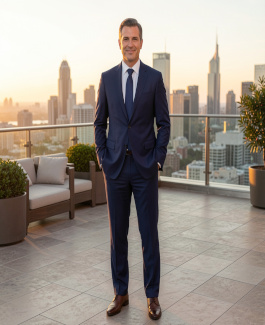
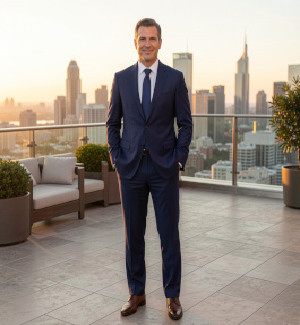
add information in readme | new images for person | add action back for 10_func_object | add css

diff --git a/bjs/10_function_object/index.html b/bjs/10_function_object/index.html
@@ -6,47 +6,57 @@
     <link rel="stylesheet" href="https://stackpath.bootstrapcdn.com/bootstrap/4.4.1/css/bootstrap.min.css"
           integrity="sha384-Vkoo8x4CGsO3+Hhxv8T/Q5PaXtkKtu6ug5TOeNV6gBiFeWPGFN9MuhOf23Q9Ifjh" crossorigin="anonymous">
     <link href="https://fonts.googleapis.com/css2?family=Open+Sans" rel="stylesheet">
-    <!-- <link rel="stylesheet" href="style.css" type="text/css"/> -->
+    <link rel="stylesheet" href="style.css" type="text/css"/>
+    <link rel="preconnect" href="https://fonts.googleapis.com">
+    <link rel="preconnect" href="https://fonts.gstatic.com" crossorigin>
+    <link href="https://fonts.googleapis.com/css2?family=Manrope:wght@200..800&display=swap" rel="stylesheet">
 </head>
-<body>
-<div class="container">
-    <div class="row game-card align-items-center">
-        <div class="col col-md-6 offset-md-3">
-            <div class="card text-center">
-                <div class="card-header">
-                    <p class="m-0">Окно результатов генерации</p>
-                </div>
-                <div class="card-body">
-                    <div class="row">
-                        <div class="col">
-                            <h3 class="card-title">Фамилия: <span id="surnameOutput">Генерация фамилии</span></h3>
-                            <h4>Имя: <span id="firstNameOutput">Генерация имени</span></h4>
-                            <h4>Отчество: <span id="patronymicOutput">Генерация отчества</span></h4>
-                            <p>
-                                <span id="genderOutput">Генерация пола</span>,
-                                <span id="birthYearOutput">Генерация</span> года рождения
-                            </p>
-                            <p>
-                                <span id="ageOutput">Генерация возраста</span>
-                            </p>
-                            <p>
-                                Профессия: <span id="JobOutput">Генерация профессии</span>
-                            </p>
+    <body>
+        <div id="back-container">
+            <a class="back-to-main" href="../../index.html">Назад</a>
+        </div>
+        <div class="container">
+            <div class="row game-card align-items-center">
+                <div class="col col-md-6 offset-md-3">
+                    <div class="card text-center" id="personCard">
+                        <div class="card-header">
+                            <p class="m-0">Окно результатов генерации</p>
                         </div>
-                        <div class="col">
-                            <img src="" id="photoOutput"/>
+                        <div class="card-body">
+                            <div class="row">
+                                <div class="col">
+                                    <img src="image/kid/child/person1.jpeg" id="photoOutput"/>
+                                </div>
+                                <div class="col" id="textPerson">
+                                    <h3 class="card-title">Фамилия: <span id="surnameOutput">Генерация фамилии</span></h3>
+                                    <h4>Имя: <span id="firstNameOutput">Генерация имени</span></h4>
+                                    <h4>Отчество: <span id="patronymicOutput">Генерация отчества</span></h4>
+                                    <p>
+                                        <span id="genderOutput">Генерация пола</span>,
+                                        <span id="birthYearOutput">Генерация</span> года рождения
+                                    </p>
+                                    <p>
+                                        <span id="ageOutput">Генерация возраста</span>
+                                    </p>
+                                    <p>
+                                        Профессия: <span id="JobOutput">Генерация профессии</span>
+                                    </p>
+                                </div>
+                            </div>
+                            <div class="row">
+                                <div class="col">
+                                    <button type="button" id="generateButton" class="btn btn-secondary mt-3" >Сгенерировать</button>
+                                </div>
+                                <div class="col">
+                                    <button type="button" id="resetButton" class="btn btn-secondary mt-3">Сброс</button>
+                                </div>    
+                            </div>
                         </div>
                     </div>
                 </div>
             </div>
-            <div class="card text-center">
-                <button type="button" id="generateButton" class="btn btn-secondary mt-3" >Сгенерировать</button>
-                <button type="button" id="resetButton" class="btn btn-secondary mt-3">Сброс</button>
-            </div>
         </div>
-    </div>
-</div>
-<script src="personGenerator.js"></script>
-<script src="init.js"></script>
-</body>
+        <script src="personGenerator.js"></script>
+        <script src="init.js"></script>
+    </body>
 </html>

diff --git a/bjs/10_function_object/personGenerator.js b/bjs/10_function_object/personGenerator.js
@@ -165,7 +165,7 @@ const personGenerator = {
         }
     }`,
     
-    // json с фото пользователей (мужчины) 18–34 лет
+    // json с фото пользователей (мужской пол) 18–34 лет
     maleYoungPhotoJson: `{
         "count": 3,
         "list": {
@@ -175,7 +175,7 @@ const personGenerator = {
         }
     }`,
 
-    // json с фото пользователей (мужчины) 35-55 лет
+    // json с фото пользователей (мужской пол) 35-55 лет
     maleMaturePhotoJson: `{
         "count": 3,
         "list": {
@@ -184,6 +184,82 @@ const personGenerator = {
             "id_3": "image/adult/male/mature/person3.jpeg"
         }
     }`,
+
+    // json с фото пользователей (женский пол) 18–34 лет
+    femaleYoungPhotoJson: `{
+        "count": 8,
+        "list": {
+            "id_1": "image/adult/female/young/person1.jpeg",
+            "id_2": "image/adult/female/young/person2.jpeg",
+            "id_3": "image/adult/female/young/person3.jpeg",
+            "id_4": "image/adult/female/young/person4.jpeg",
+            "id_5": "image/adult/female/young/person5.jpeg",
+            "id_6": "image/adult/female/young/person6.jpeg",
+            "id_7": "image/adult/female/young/person7.jpeg",
+            "id_8": "image/adult/female/young/person8.jpeg"
+        }
+    }`,
+
+    // json с фото пользователей (женский пол) 35-55 лет
+    femaleMaturePhotoJson: `{
+        "count": 5,
+        "list": {
+            "id_1": "image/adult/female/mature/person1.jpeg",
+            "id_2": "image/adult/female/mature/person2.jpeg",
+            "id_3": "image/adult/female/mature/person3.jpeg",
+            "id_4": "image/adult/female/mature/person4.jpeg",
+            "id_5": "image/adult/female/mature/person5.jpeg"
+        }
+    }`,
+
+    // json с фото - заглушкой (дети от 1 до 15 лет)
+    childPhotoJson: `{
+        "count": 1,
+        "list": {
+            "id_1": "image/kid/child/person1.jpeg"
+        }
+    }`,
+
+    // json с фото пользователей (женский пол) (дети от 16 до 17 лет)
+    femaleKidPhotoJson: `{
+        "count": 3,
+        "list": {
+            "id_1": "image/kid/female/person1.jpeg",
+            "id_2": "image/kid/female/person2.jpeg",
+            "id_3": "image/kid/female/person3.jpeg"
+        }
+    }`,   
+
+
+    // json с фото пользователей (мужской пол) (дети от 16 до 17 лет)
+    maleKidPhotoJson: `{
+        "count": 3,
+        "list": {
+            "id_1": "image/kid/male/person1.jpeg",
+            "id_2": "image/kid/male/person2.jpeg",
+            "id_3": "image/kid/male/person3.jpeg"
+        }
+    }`,   
+
+    // json с фото пользователей (женский пол) (дети от 56 до 80 лет)
+    femalePensionerPhotoJson: `{
+        "count": 3,
+        "list": {
+            "id_1": "image/pensioner/female/person1.jpeg",
+            "id_2": "image/pensioner/female/person2.jpeg",
+            "id_3": "image/pensioner/female/person3.jpeg"
+        }
+    }`,   
+
+    // json с фото пользователей (мужской пол) (дети от 56 до 80 лет)
+    malePensionerPhotoJson: `{
+        "count": 3,
+        "list": {
+            "id_1": "image/pensioner/male/person1.jpeg",
+            "id_2": "image/pensioner/male/person2.jpeg",
+            "id_3": "image/pensioner/male/person3.jpeg"
+        }
+    }`,   
 
 
     // Массив для исключений возраста
@@ -331,21 +407,44 @@ const personGenerator = {
     // Генерация случайного фото
      randomPhotoGenerator: function(gender, age) {
         let json;
+        if (age < 16){
+            json = this.childPhotoJson
+            return this.randomValue(json)
+        }
         if (age <= 34 && age >= 18){
             if (gender === this.GENDER_MALE) {
                 json = this.maleYoungPhotoJson;
                 return this.randomValue(json)
             }else{
-                return '#'
+                json = this.femaleYoungPhotoJson;
+                return this.randomValue(json)
             }
         }else if (age >= 35 && age <= 55){
-                if (gender === this.GENDER_MALE) {
+            if (gender === this.GENDER_MALE) {
                 json = this.maleMaturePhotoJson;
                 return this.randomValue(json)
             }else{
-                return '#'
+                json = this.femaleMaturePhotoJson;
+                return this.randomValue(json)
+            }
+        }else if (age > 55){
+            if (gender === this.GENDER_MALE) {
+                json = this.malePensionerPhotoJson;
+                return this.randomValue(json)
+            }else{
+                json = this.femalePensionerPhotoJson;
+                return this.randomValue(json)
+            }
+        }else if (age >= 16 && age <=17) {
+                if (gender === this.GENDER_MALE) {
+                json = this.maleKidPhotoJson;
+                return this.randomValue(json)
+            }else{
+                json = this.femaleKidPhotoJson;
+                return this.randomValue(json)
             }
         }
+
      },
 
     getPerson: function () {

diff --git a/bjs/10_function_object/style.css b/bjs/10_function_object/style.css
@@ -1,0 +1,81 @@
+body{
+    font-family: 'Manrope', sans-serif;
+    background-color: aliceblue;
+    background-image: url('image/asset/body-background.jpg');
+    background-size: cover;
+    
+}
+
+.back-to-main{
+    display: flex;
+    align-items: center;
+    justify-content: center;
+    font-family: Arial, Helvetica, sans-serif;
+    font-size: 25px;
+    text-shadow: 1px 1px 1px rgba(5, 40, 135, 0.423);
+    height: 30px;
+    width: 150px;
+    justify-content:center;
+    border-radius: 5%;
+    background-color: rgba(236, 79, 241, 0.179);
+    box-shadow: 4px 4px 4px rgba(34, 0, 255, 0.309);
+    border: 2px ridge rgba(230, 65, 208, 0.6);
+    text-decoration: none;
+    
+}
+.back-to-main:hover{
+    text-shadow: 1px 1px 1px rgb(4, 19, 60);
+    background-color: rgba(79, 79, 79, 0.207);
+    text-decoration: none;
+}
+
+.card.text-center{
+    height: 500px;
+    width: 700px;
+    border-radius: 1%;
+    border: solid black 1px;
+    box-shadow: 2px 4px 4px rgb(157, 123, 95);
+}
+
+.btn.btn-secondary.mt-3{
+    height: 40px;
+    width: 145px;
+}
+
+#photoOutput{
+    border-radius: 5%;
+    border: solid black 1px;
+    box-shadow: 2px 2px 4px rgb(82, 66, 53);
+}
+
+#textPerson{
+    padding-top: 20px;
+    text-align: left;
+    background-color: rgba(0, 0, 0, 0.746);
+    border-radius: 5%;
+    border: solid black 1px;
+    box-shadow: 2px 2px 4px rgb(82, 66, 53);
+    font-weight: 400; 
+    font-size: 0.875rem;
+    line-height: 1.4;
+    color:antiquewhite;
+    text-shadow: 1px 1px 2px rgb(0, 0, 0);
+    margin-right: 20px;
+}
+
+#personCard{
+    background-color: antiquewhite;
+    background-image: url('image/asset/card-background.jpeg');
+}
+
+.card-header{
+    height: 15%;
+    background-color: rgba(0, 0, 0, 0.839);
+    font-weight: 600;
+    font-size: 1.8rem;
+    line-height: 1.3;
+    color:antiquewhite;
+    text-align: center;
+    
+
+}

diff --git a/index.html b/index.html
@@ -9,6 +9,6 @@
 <body>
     <a href="./bjs/07_Number_and_string/index.html">Калькулятор</a>
     <a href="./bjs/08_if_else/index.html">Угадайка</a>
-    <a href="./bjs/10_function_object/index.html">В разработке</a>
+    <a href="./bjs/10_function_object/index.html">Генератор пользователей</a>
 </body>
 </html>

diff --git a/README.md b/README.md
@@ -17,6 +17,7 @@
 3. [Еще не пройдено]
 ---
 [Github Pages](https://ramfour.github.io/php/)
+[Картинки сгеренированны на сайте freepik](http://www.freepik.com)
 
 
 [Unofficial JavaScript logo by Chris Williams, from GitHub logo.js, under very permissive licensing (WTFPL).](https://github.com/voodootikigod/logo.js)
